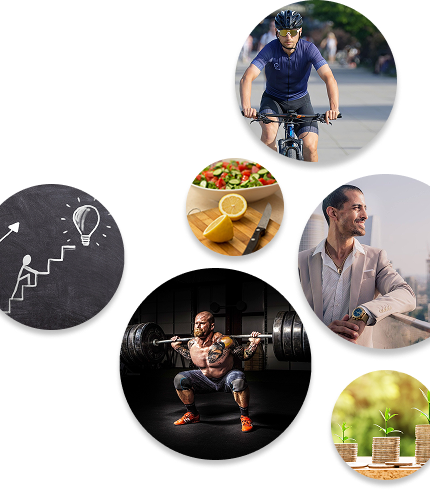
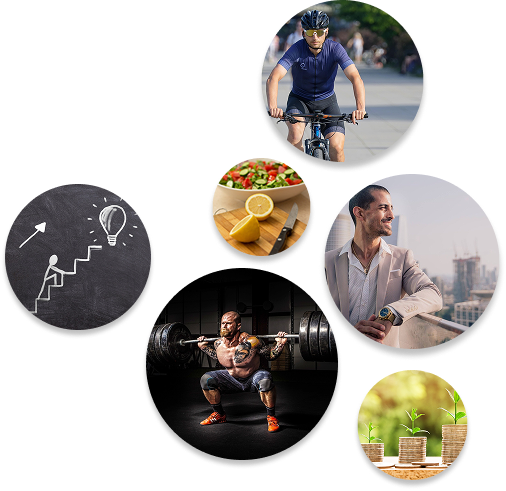
new

diff --git a/components/Onboarding.tsx b/components/Onboarding.tsx
@@ -37,20 +37,21 @@ export default function AdaptoniaOnboarding() {
       title: "Lorem Ipsum dolor sit amet",
       content: (
         <div className="w-full h-full relative">
-          <div className="absolute inset-0 -mx-6 mt-4">
-            <Image
-              src="/first-onboarding-one/Group 95.png"
-              alt="food"
-              className="w-full h-auto object-contain"
-              width={1000}
-              height={1000}
-              priority
-            />
-          </div>
-          <div className="relative z-10 h-full">
-            {/* Empty div to maintain proper spacing and ensure the content area remains accessible */}
-          </div>
-        </div>
+  <div className="absolute inset-0 -mx-6 mt-4">
+    <div className="relative w-full h-full">
+      <Image
+        src="/first-onboarding-one/Group 95.png"
+        alt="food"
+        className="object-contain"
+        fill
+        priority
+      />
+    </div>
+  </div>
+  <div className="relative z-10 h-full">
+    {/* Empty div to maintain proper spacing and ensure the content area remains accessible */}
+  </div>
+</div>
       ),
       description:
         "Lorem ipsum dolor sit amet consectetur. At laoreet morbi amet aliquam arcu pharetra tellus elit. Eget integer duis tortor amet purus.",
@@ -60,20 +61,21 @@ export default function AdaptoniaOnboarding() {
       title: "Welcome to adaptonia",
       content: (
         <div className="w-full h-full relative">
-          <div className="absolute inset-0 -mx-6 mt-4">
+        <div className="absolute inset-0 -mx-6 mt-4">
+          <div className="relative w-full h-full">
             <Image
               src="/first-onboarding-one/Group 96.png"
               alt="food"
-              className="w-full h-auto object-contain"
-              width={1000}
-              height={1000}
+              className="object-contain"
+              fill
               priority
             />
           </div>
-          <div className="relative z-10 h-full">
-            {/* Empty div to maintain proper spacing and ensure the content area remains accessible */}
-          </div>
         </div>
+        <div className="relative z-10 h-full">
+          {/* Empty div to maintain proper spacing and ensure the content area remains accessible */}
+        </div>
+      </div>
       ),
       description:
         "Lorem ipsum dolor sit amet consectetur. At laoreet morbi amet aliquam arcu pharetra tellus elit. Eget integer duis tortor amet purus.",
@@ -142,10 +144,10 @@ export default function AdaptoniaOnboarding() {
                   {screens[currentScreen].content}
                 </div>
                 <div className="mb-6">
-                  <h1 className="text-white text-4xl font-bold text-center mb-4">
+                  <h1 className="text-white text-3xl font-bold text-center mb-4">
                     {screens[currentScreen].title}
                   </h1>
-                  <p className="text-white text-center">
+                  <p className="text-white text-center text-sm">
                     {screens[currentScreen].description}
                   </p>
                 </div>
